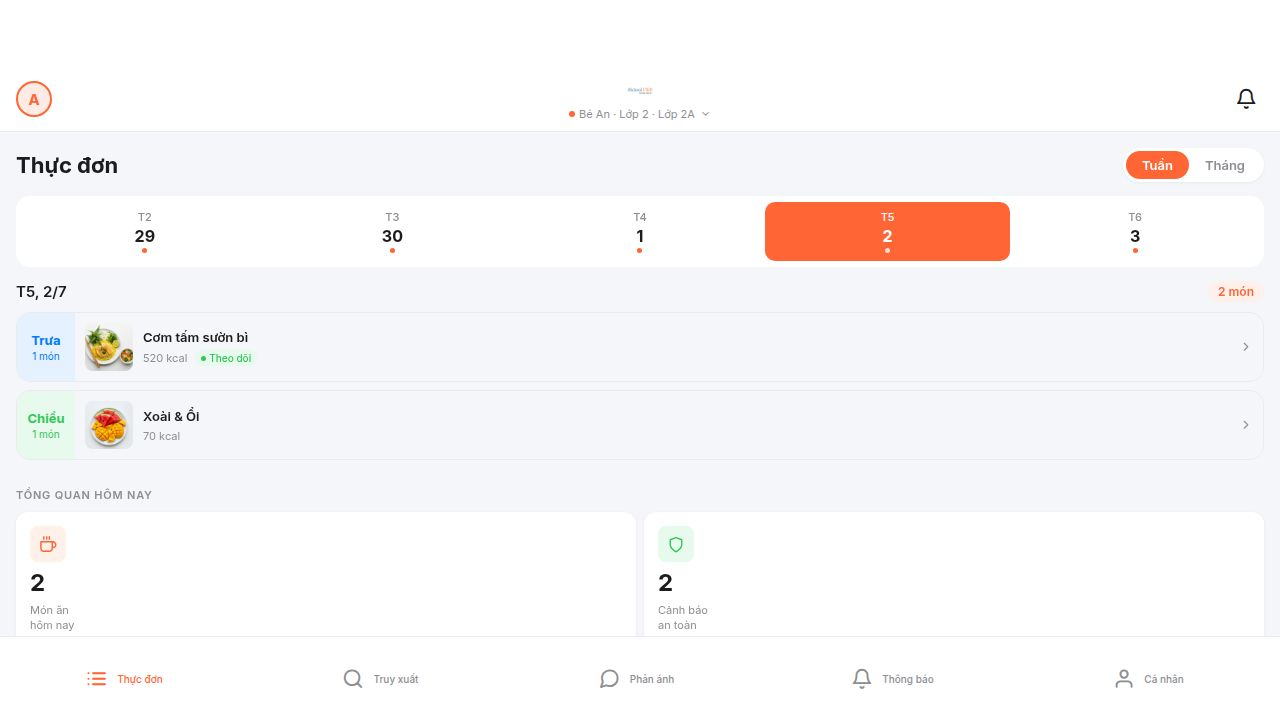
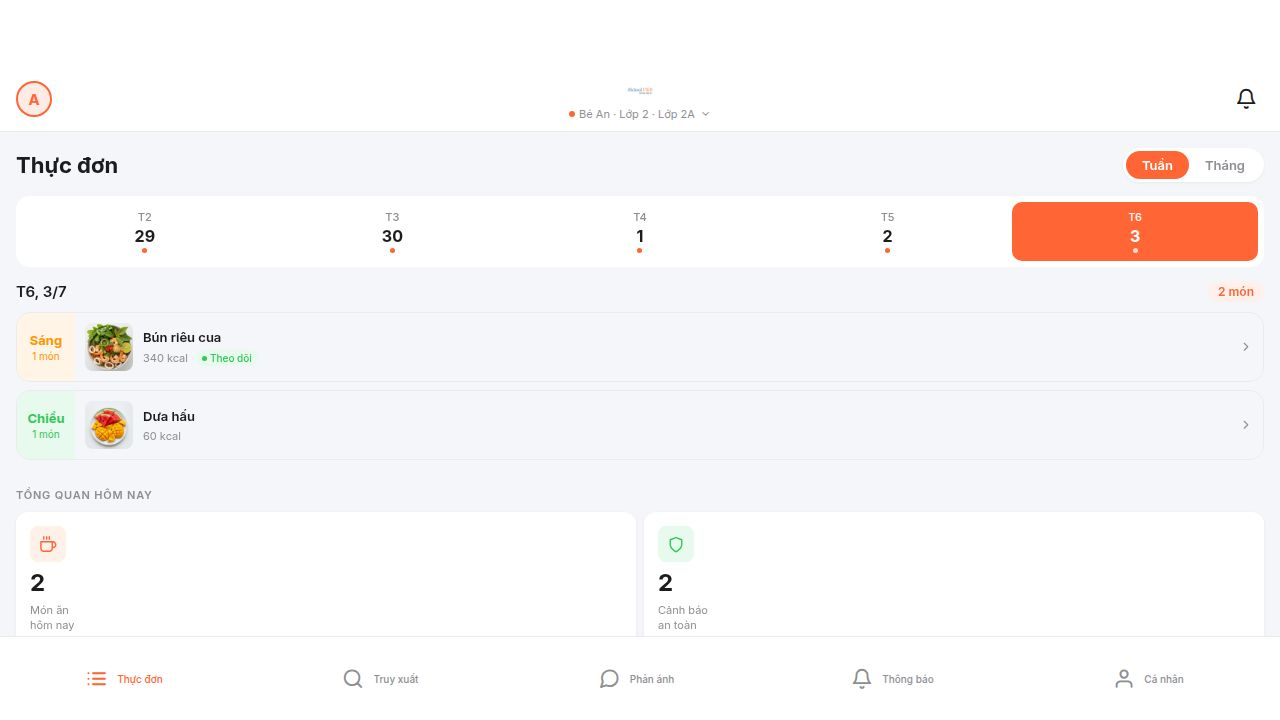
Improve login screen layout to prevent text overlap on demo card
Add flex: 1 style to the demo card text view in app/login.tsx to ensure proper text wrapping and button positioning.

Replit-Commit-Author: Agent
Replit-Commit-Session-Id: 3d9efbcf-9262-4d57-965a-d32bd4747899
Replit-Commit-Checkpoint-Type: full_checkpoint
Replit-Commit-Event-Id: 5bfa1b31-239a-402a-b06b-25a876742fab
Replit-Commit-Screenshot-Url: https://storage.googleapis.com/screenshot-production-us-central1/4b97aded-9073-4cff-b11f-6da8989a934d/3d9efbcf-9262-4d57-965a-d32bd4747899/zEhVGmf
Replit-Helium-Checkpoint-Created: true

Changed region(s): [[0.5938, 0.275, 1.0, 0.3667], [0.0, 0.4278, 0.1875, 0.55], [0.0938, 0.55, 0.1562, 0.6111]]

diff --git a/artifacts/checkee-fnb/app/login.tsx b/artifacts/checkee-fnb/app/login.tsx
@@ -155,7 +155,7 @@ export default function LoginScreen() {
               <View style={[styles.demoAvatar, { backgroundColor: colors.accent }]}>
                 <Text style={[styles.demoAvatarText, { color: colors.primary }]}>H</Text>
               </View>
-              <View>
+              <View style={{ flex: 1 }}>
                 <View style={styles.demoTopRow}>
                   <Feather name="info" size={12} color={colors.info} />
                   <Text style={[styles.demoHint, { color: colors.info }]}>Tài khoản demo</Text>
